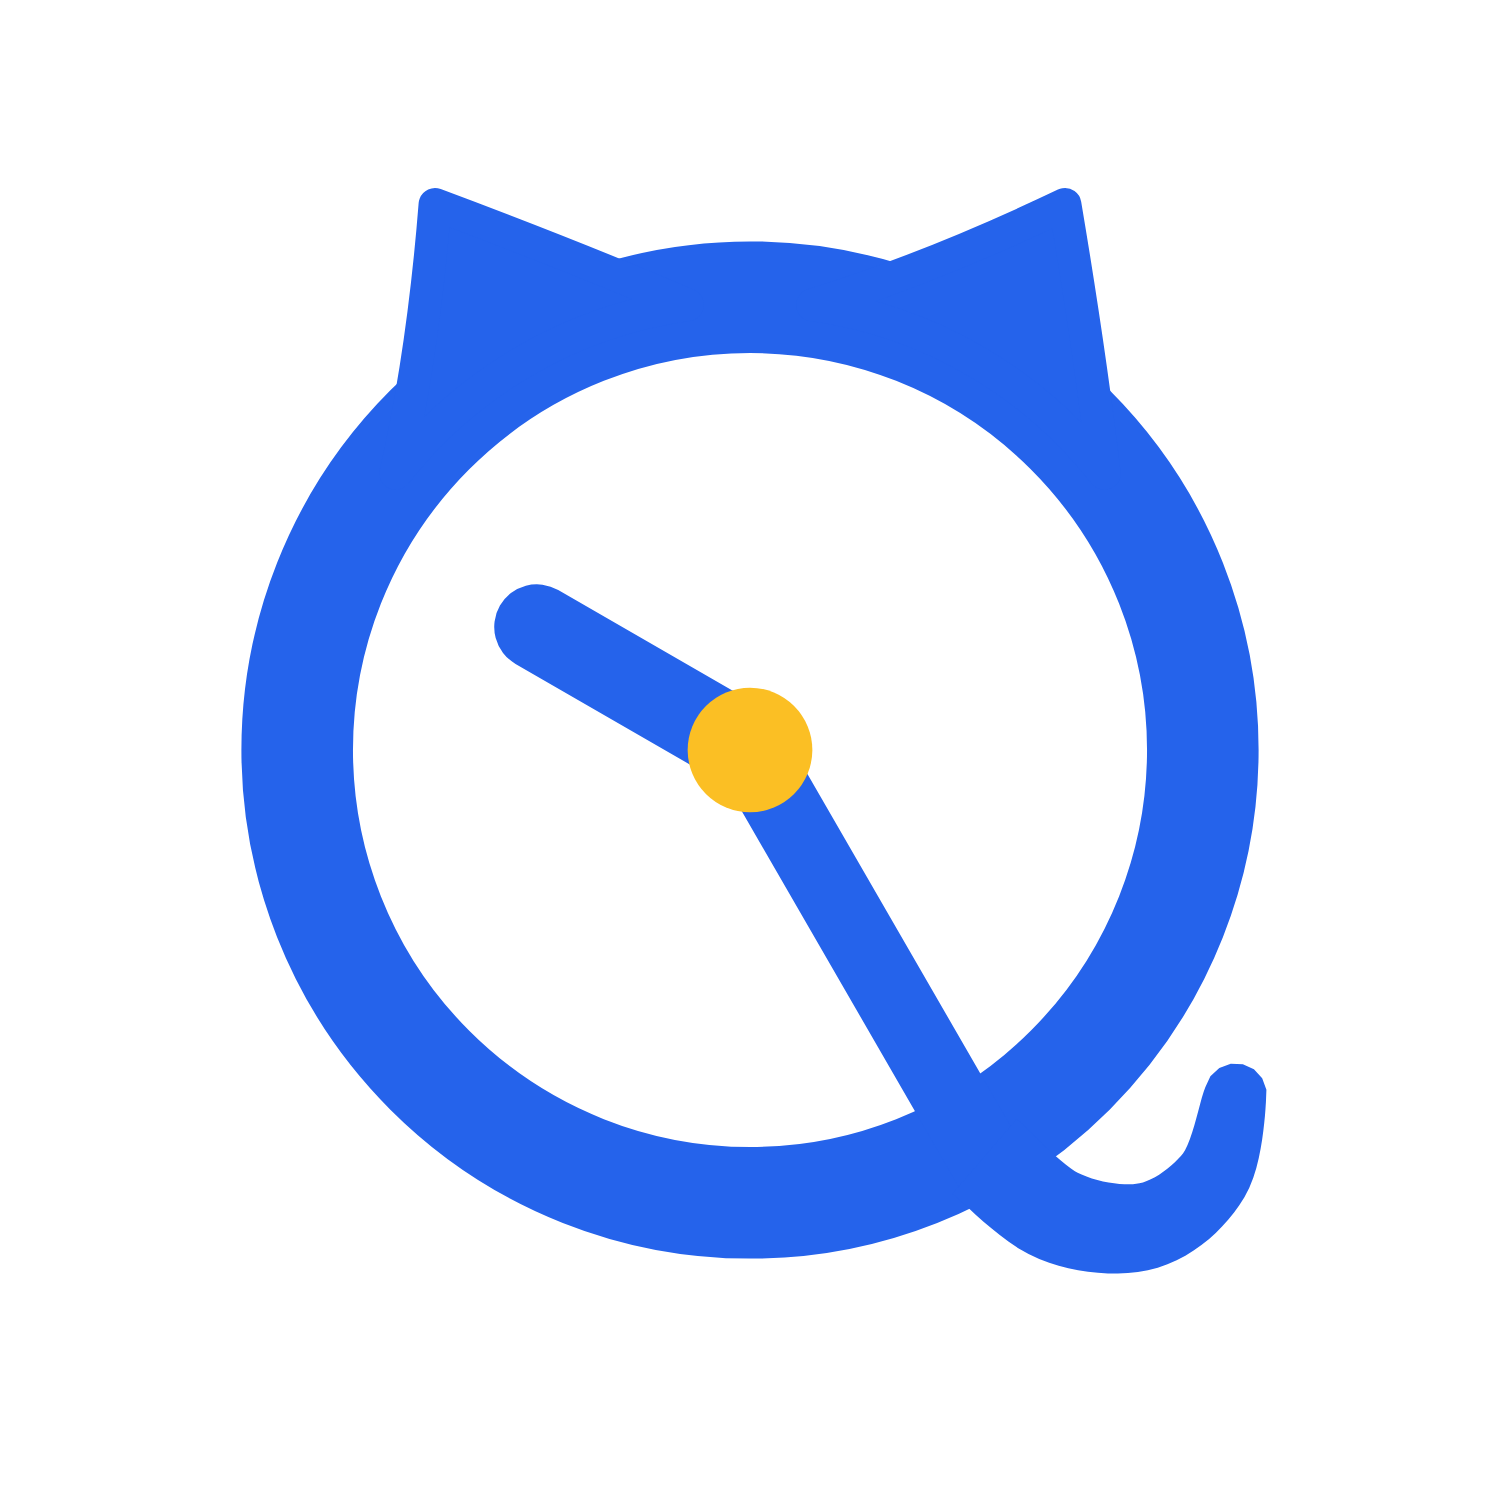
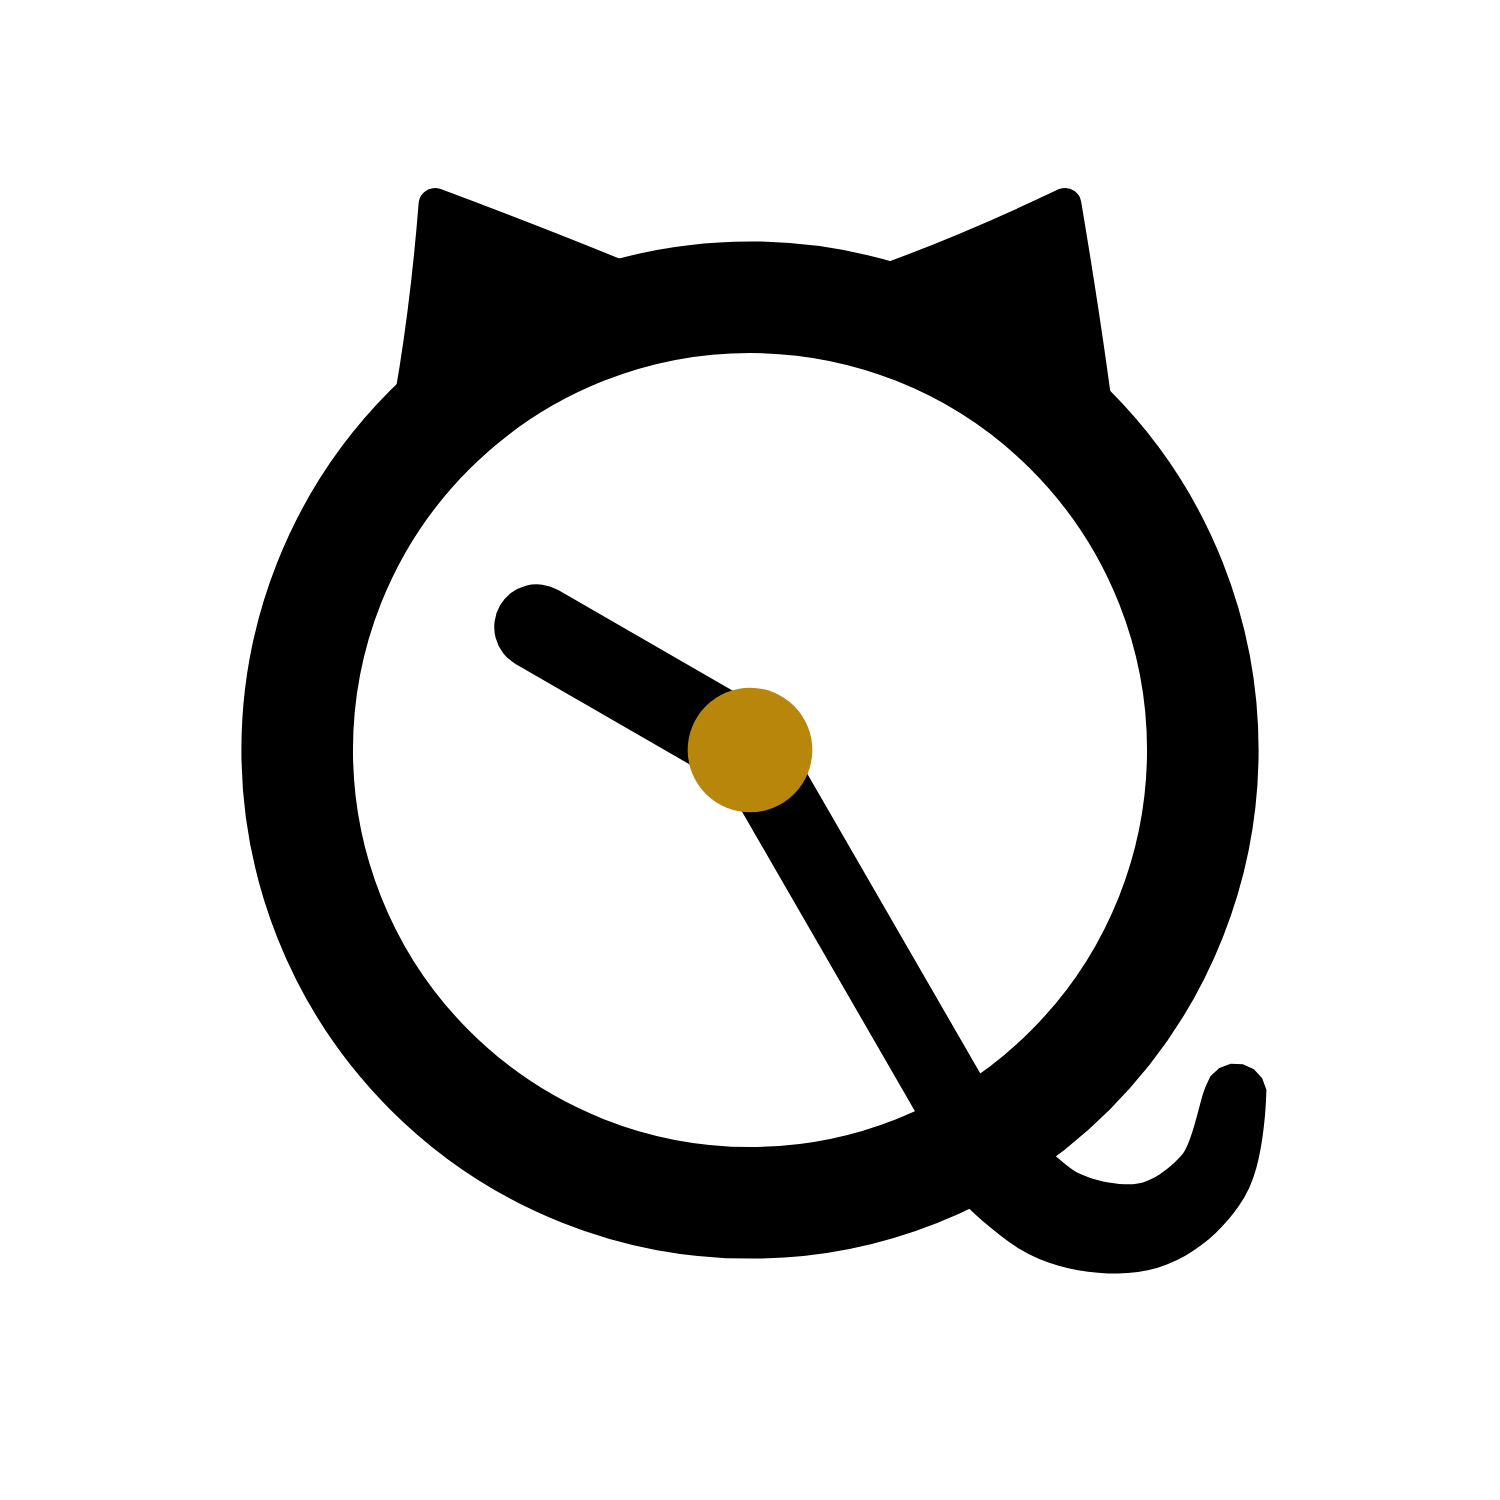
feat(dev0.4.2203): 品牌配色改为黑金，名称体系调整为 TheBell_Dev / TheBell Beta
- LOGO 蓝色全部改黑（圆环/猫耳/指针/猫尾），中心轴心改暗金色（#000000 / #B8860B）
- 经 logo.py 重新生成 SVG 与 Android 矢量层，render_icons.mjs 重新渲染多密度 PNG 与 iOS 图标
- 项目名 TheBell_Dev（npm 名 thebell-dev），软件名 TheBell Beta（appName / app_name / 应用内品牌 / 窗口标题 / 备份分享标题），包名 pascal.thebell 不变
- README 标注本仓库为 TheBell 开发版主线，稳定版在独立分支仓库整理
- 版本 Dev0.4.2203（versionCode 8）

Changed region(s): [[0.1533, 0.1227, 0.8587, 0.8587]]

diff --git a/src/views/SettingsView.vue b/src/views/SettingsView.vue
@@ -95,7 +95,7 @@ async function exportPlan(): Promise<void> {
       });
       await Share.share({
         title: '导出计划',
-        text: 'TheBell计划备份',
+        text: 'TheBell Beta 计划备份',
         url: result.uri,
         dialogTitle: '保存或分享备份文件',
       });
@@ -376,10 +376,10 @@ function resetAll(): void {
           <div class="about-brand">
             <img class="about-logo" src="/brand-icon.svg" alt="TheBell" width="42" height="42" />
             <div>
-              <b>TheBell</b>
+              <b>TheBell Beta</b>
               <p>TheBell · 50/10 专注计时、学习计划与倒数日</p>
             </div>
-            <span class="version-tag">Dev0.4.2202</span>
+            <span class="version-tag">Dev0.4.2203</span>
           </div>
           <ul class="about-meta">
             <li><span>包名</span><b>pascal.thebell</b></li>

diff --git a/src/App.vue b/src/App.vue
@@ -97,8 +97,8 @@ onMounted(async () => {
       <div class="brand">
         <img class="brand-mark" src="/brand-icon.svg" alt="TheBell" width="40" height="40" />
         <div class="brand-text">
-          <b>TheBell</b>
-          <span>学习时钟 · Dev0.4.2202</span>
+          <b>TheBell Beta</b>
+          <span>学习时钟 · Dev0.4.2203</span>
         </div>
       </div>
 
@@ -134,7 +134,7 @@ onMounted(async () => {
     <main class="main">
       <div v-if="!store.ready" class="boot">
         <img class="boot-mark" src="/brand-icon.svg" alt="" width="68" height="68" />
-        <b>TheBell</b>
+        <b>TheBell Beta</b>
         <span class="boot-spinner" />
         <p>正在准备你的计划…</p>
       </div>

diff --git a/index.html b/index.html
@@ -9,7 +9,7 @@
     />
     <meta name="theme-color" content="#f4f4f7" />
     <meta name="description" content="TheBell — 50/10 专注计时、学习计划与倒数日" />
-    <title>TheBell · 学习时钟</title>
+    <title>TheBell Beta · 学习时钟</title>
   </head>
   <body>
     <div id="app"></div>

diff --git a/src/lib/backup.ts b/src/lib/backup.ts
@@ -77,7 +77,7 @@ export function buildBackup(data: AppData): BackupFile {
   return {
     app: 'pascal.thebell',
     format: 'thebell/v1',
-    version: 'Dev0.4.2202',
+    version: 'Dev0.4.2203',
     exportedAt: new Date().toISOString(),
     plan: { ...data.plan },
     routine: routine.map((item) => ({

diff --git a/capacitor.config.ts b/capacitor.config.ts
@@ -2,7 +2,7 @@ import type { CapacitorConfig } from '@capacitor/cli';
 
 const config: CapacitorConfig = {
   appId: 'pascal.thebell',
-  appName: 'TheBell',
+  appName: 'TheBell Beta',
   webDir: 'dist',
   android: {
     backgroundColor: '#f4f4f7',

diff --git a/scripts/logo.py b/scripts/logo.py
@@ -2,8 +2,8 @@
 
 Draws a cat-eared clock:
 - white background
-- blue ring (clock face)
-- yellow centre pin
+- black ring (clock face)
+- dark-gold centre pin
 - minute hand pointing to 5 o'clock, continuing outside the ring as a tapered cat tail
 - two slightly curved triangular ears on top
 
@@ -28,8 +28,8 @@ C = (512.0, 512.0)
 RING_R = 276.0
 RING_W = 68.0
 EAR_TIP_R = 108.0
-BLUE = "#2563EB"
-YELLOW = "#FBBF24"
+BLUE = "#000000"
+YELLOW = "#B8860B"
 WHITE = "#FFFFFF"
 
 

diff --git a/README.md b/README.md
@@ -1,6 +1,8 @@
-# TheBell
+# TheBell_Dev
 
-一个以 **50 分钟学习 + 10 分钟休息** 为节奏的学习时钟、计划与倒数日应用。**Dev0.4.2202**。
+一个以 **50 分钟学习 + 10 分钟休息** 为节奏的学习时钟、计划与倒数日应用。**Dev0.4.2203**。
+
+本仓库是 TheBell 的**开发版主线**（项目名 `TheBell_Dev`），面向用户安装的软件名为 **TheBell Beta**；稳定版本在独立的稳定版分支仓库中整理发布，本仓库的变更经真机验证后再汇入。
 
 适用于考研、自学考试、语言考试、职业资格考试，以及任何需要长时间专注的场景。
 
@@ -24,7 +26,7 @@
 - **倒数日**：主倒数 + 多个目标日，支持颜色与置顶
 - **JSON 导入 / 导出**：包含计划、任务、作息起止时间、打卡状态、分段计时、独立计时器、倒数日、主题
 - **主题**：浅色 / 深色 / 跟随系统
-- **版本**：`versionName = Dev0.4.2202`，包名 `pascal.thebell`
+- **版本**：`versionName = Dev0.4.2203`，软件名 TheBell Beta，包名 `pascal.thebell`
 
 ## 技术栈
 
@@ -122,7 +124,7 @@ scripts/
 {
   "app": "pascal.thebell",
   "format": "thebell/v1",
-  "version": "Dev0.4.2202",
+  "version": "Dev0.4.2203",
   "plan": { "name": "我的学习计划", "startDate": "2026-11-21", "totalDays": 100 },
   "routine": [
     { "time": "08:00–08:50", "start": "08:00", "end": "08:50", "title": "学习段 1", "kind": "study", "durationSec": 3000 },
@@ -160,15 +162,21 @@ scripts/
 
 ## 图标与 Logo
 
-猫耳时钟：白色底、蓝色圆环、黄色轴心，分针指向 5 点后延伸成猫尾巴，圆环顶部两只带弧度的猫耳。
+猫耳时钟：白色底、黑色圆环、暗金色轴心，分针指向 5 点后延伸成猫尾巴，圆环顶部两只带弧度的猫耳。
 
 - 源文件：`resources/icon.svg`（1024，白色圆角底，按部件分组：ring / ear-left / ear-right / hand-hour / hand-minute / cat-tail / center-pin）、`icon-square.svg`、`icon-round.svg`、`logo.svg`（透明底）、`icon-monochrome.svg`（单色剪影）、`icon-bw.svg`（黑白墨稿）
 - 申报图样：`icon-1500.png`（彩色）、`icon-bw-1500.png`（黑白），打包件 `D:/TheBell-icon-source.zip`
 - 生成：`python scripts/logo.py` 输出 SVG 与 Android 矢量层；`node scripts/render_icons.mjs` 光栅化 `mipmap-*/ic_launcher*.png`、`resources/icon.png` 与 iOS `AppIcon`
 - 自适应图标：108dp 画布，纯白 `background` + 矢量 `foreground`，图形控制在中心 66dp 安全区内，耳朵 / 尾巴不会被任何遮罩裁掉
 - 主题图标（Monet）：额外提供 `drawable/ic_launcher_monochrome.xml` 单色层，Android 13+ 会按壁纸取色自动染色
-- 配色：蓝 `#2563EB`、黄 `#FBBF24`、白 `#FFFFFF`
+- 配色：黑 `#000000`、暗金 `#B8860B`、白 `#FFFFFF`
 - 应用内：侧边栏品牌区、启动加载页、设置「关于」卡片共用 `public/brand-icon.svg`（由 `logo.py` 随 SVG 一起同步，favicon 同源）
+
+## Dev0.4.2203 变更
+
+- 品牌：LOGO 蓝色圆环 / 猫耳 / 指针 / 猫尾全部改为黑色，中心轴心改为暗金色（`#000000` / `#B8860B`），应用图标、Web 角标、favicon、Android 矢量层与多密度 PNG、iOS 图标同步重生成
+- 名称体系：项目名 `TheBell_Dev`（本仓库为 TheBell 开发版主线），软件名改为 **TheBell Beta**（桌面名称、应用内品牌、窗口标题、备份分享标题），包名保持 `pascal.thebell`
+- 版本 Dev0.4.2203（versionCode 8）
 
 ## Dev0.4.2202 变更
 
